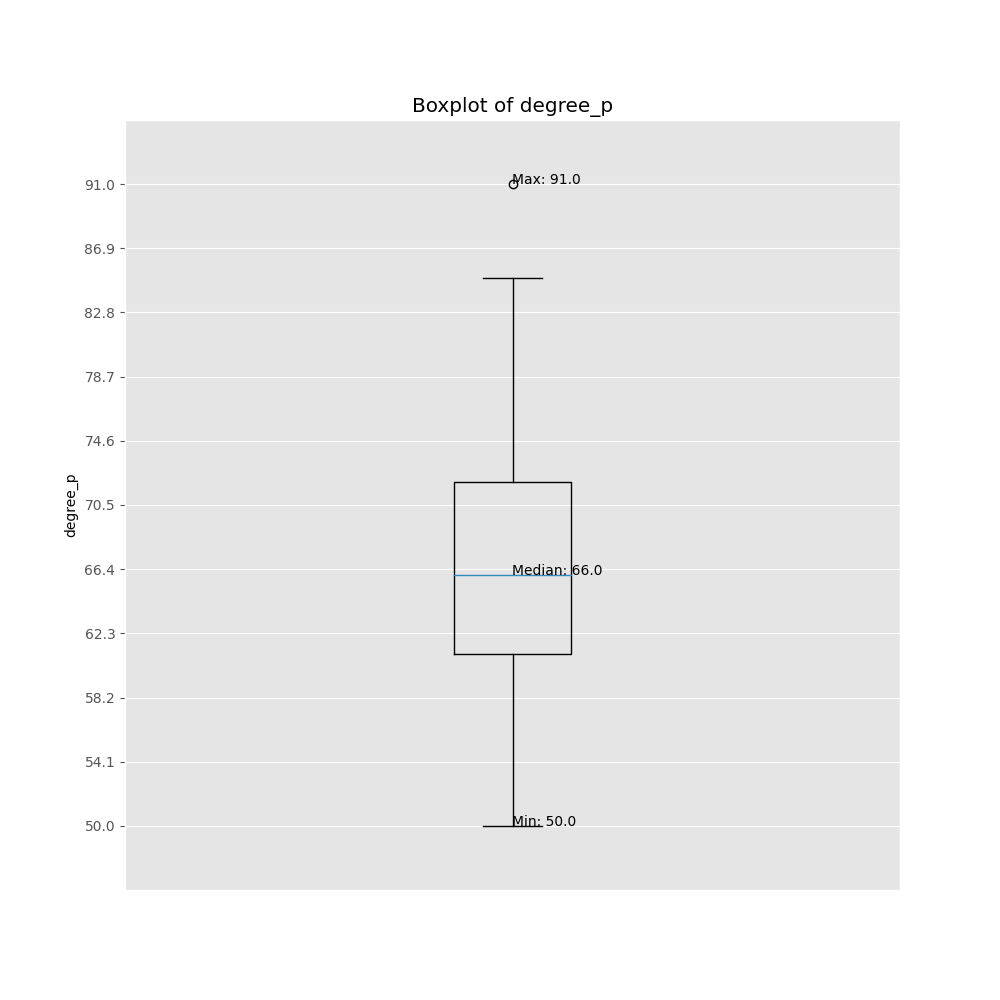
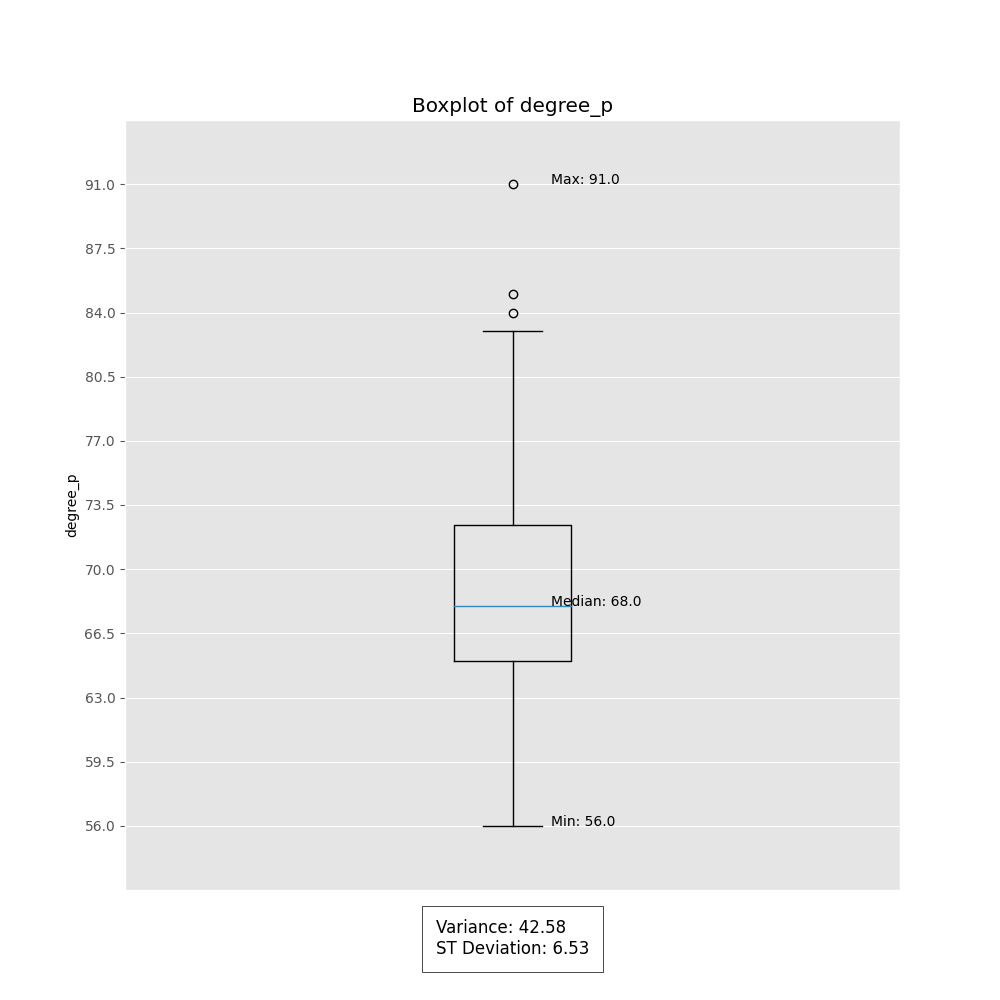
Update and Refactoring

diff --git a/utility.py b/utility.py
@@ -4,17 +4,19 @@ import logging
 from sklearn.preprocessing import LabelEncoder
 import matplotlib.pyplot as plt
 import json
+import re
 
 config = json.load(open("config.json", "r"))
 
-fig_path = "./figures"
+fig_path    = "./figures"
+corr_path   = "./correlations"
 plt.style.use('ggplot') # set matplotlib styling
 
 """
 This is a file for general utility, where some functions are stored that are used multiple times.
 This is to keep the main.py file clean and easy to follow and improve reusability of the code.
 """
-# multi column label encoder 
+# multi-column label encoder 
 class MCLE:
 
     def __init__(self, columns=None):
@@ -62,59 +64,124 @@ class MCLE:
             logging.error(e)
             return None
 
-def _correlations(df, column, threshold):    
-    logging.log(level=0, msg=f"Correlations with {column}")
+def _corr_string(dir):
+    string = ""
+    for i, value in enumerate(dir):
+        string += f"{value:<15} {round(dir[value], 5)}"
+
+        if i != len(dir) - 1:
+            string += "\n"
+    
+    return string
+
+def _correlations(df, column, threshold=0):    
     correlations = df.corr()[column]
+    logging.debug(f"Correlations before drop: {correlations}")
+    correlations.drop(column, inplace=True)
+    logging.debug(f"Correlations after drop: {correlations}")
     corr_dict = dict()
     for i, corr in enumerate(correlations):
         logging.log(level=0, msg=f"{correlations.index[i]:<15}: {round(corr, 5)}")
         if threshold is not None:
-            if corr >= threshold:
+            if abs(corr) >= threshold:
                 corr_dict[correlations.index[i]] = corr
 
     return corr_dict
 
-def corr(df=None, column=None, threshold=0.25, split_gender=False):
+def get_corr(df=None, column=None, split_genders=False, file=None, features=[]):
+    if not isinstance(df, pd.DataFrame):
+        logging.warning("df is not a DataFrame")
+        return None
+    
+    if column is None or column not in df.columns:
+        logging.warning(f"Column {column} is None or not in DataFrame.")
+        return None
+    
+    if features is str:
+        features = [features]
+    
+    try:
+        f = open(f"{corr_path}/{file}.txt", "r")
+        groups = f.read().split("\n\n")
+        f.close()
+    except Exception:
+        logging.error(e)
+        logging.warning(f"Create correlation file '{file}.txt' first using .corr()")
+
+    try:
+        female_df = df[df["gender"] == 0] if split_genders == True else None
+        male_df = df[df["gender"] == 1] if split_genders == True else None
+    except Exception as e:
+        split_genders = False
+        logging.error(e)
+        logging.error("Couldn't split genders")
+
+    for feature in features:
+        if feature not in df.columns:
+            logging.warning(f"Feature {feature} not in df")
+            continue
+        if feature == column:
+            logging.debug(f"Skipped correlation for double {feature}")
+            continue
+        try:
+            corrs = {
+                "general":  _correlations(df[[column, feature]], column)[feature],
+                "female":   _correlations(female_df[[column, feature]], column)[feature] if split_genders is True else None,
+                "male":     _correlations(male_df[[column, feature]], column)[feature] if split_genders is True else None}
+        except Exception as e:
+            logging.error(e)
+            return None
+        
+        for i, group in enumerate(groups):
+            listed_features = re.findall(r"\n(w+)", group)
+            if feature not in listed_features:
+                value = corrs["general"] if i == 0 else corrs["female"] if i == 1 else corrs["male"]
+                if value is not None:
+                    groups[i] += f"\n{feature:<15} {round(value, 5)}"
+    
+    with open(f"{corr_path}/{file}.txt", "w") as file:
+        file.write("\n\n".join(groups))
+    return None
+
+def corr(df=None, column=None, threshold=0.25, split_genders=False, file=None):
     
     # checking that all given parameters are valid
     if not isinstance(df, pd.DataFrame):
         logging.warning("df is not a DataFrame")
         return None
 
-    if column is None or column not in df.columns or type(column) is not str:
+    if column is None or column not in df.columns:
         logging.warning(f"Column {column} is None or not in DataFrame.")
         return None
     
     if threshold is not None and (type(threshold) is not float or threshold < 0.01 or threshold > 0.99):
         logging.warning(f"Threshold {threshold} is not a float between 0.01 and 0.99")
         return None
-    
-    female_df = male_df = female_corr = male_corr = None
 
-    if split_gender:
-        try:
-            female_df = df[df["gender"] == 0]
-            male_df = df[df["gender"] == 1]
-        except Exception as e:
-            logging.error(e)
-            logging.error("Couldn't split dataframe by gender")
-    
+    try:
+        female_df = df[df["gender"] == 0] if split_genders == True else None
+        male_df = df[df["gender"] == 1] if split_genders == True else None
+    except Exception as e:
+        split_genders = False
+        logging.error(e)
+        logging.error("Couldn't split genders")
+
     general_corr = _correlations(df, column, threshold)
-    if female_df is not None: 
-        try:
-            female_corr = _correlations(female_df, column, threshold)
-        except Exception as e:
-            logging.error(e)
-    if male_df is not None:
-        try:
-            male_corr = _correlations(male_df, column, threshold)
-        except Exception as e:
-            logging.error(e)
+    female_corr = _correlations(female_df, column, threshold) if split_genders is True else None
+    male_corr = _correlations(male_df, column, threshold) if split_genders is True else None
     
-    logging.info(f"General Correlations: {general_corr}")
+    if file is not None:
+        file = open(f"{corr_path}/{file}.txt", "w")
+        file.write(f"General Correlations: \n{_corr_string(general_corr)}\n\n")
+        if male_corr and female_corr:
+            file.write(f"Female Correlations: \n{_corr_string(female_corr)}\n\n")
+            file.write(f"Male Correlations: \n{_corr_string(male_corr)}")
+        file.close()
+
+    logging.debug(f"General Correlations: {general_corr}")
     if male_corr and female_corr:
-        logging.info(f"Male Group Correlations: {male_corr}")
-        logging.info(f"Female Group Correlations: {female_corr}")
+        logging.debug(f"Male Group Correlations: {male_corr}")
+        logging.debug(f"Female Group Correlations: {female_corr}")
         return general_corr, female_corr, male_corr
     else:
         return general_corr
@@ -146,9 +213,13 @@ def boxplot(series=None, name=None):
 
     plt.ylabel(f"{name}")
     plt.xticks([])
-    plt.text(1, series.median(), f"Median: {round(series.median(), 2)}")
-    plt.text(1, series.min(), f"Min: {round(series.min(), 2)}")
-    plt.text(1, series.max(), f"Max: {round(series.max(), 2)}")
+    plt.text(1.05, series.median(), f"Median: {round(series.median(), 2)}")
+    plt.text(1.05, series.min(), f"Min: {round(series.min(), 2)}")
+    plt.text(1.05, series.max(), f"Max: {round(series.max(), 2)}")
+
+    # add text box with outlines below the boxplot
+    plt.text(x=1, y=series.min()-(series.max()-series.min())*0.2, s=f"{'Variance:'} {round(series.var(), 2)}\n{'ST Deviation:'} {round(series.std(), 2)}", fontsize=12, horizontalalignment='center', multialignment="left").set_bbox({"edgecolor": "black", "facecolor": "white", "pad": 10})
+
 
     plt.savefig(f"{fig_path}/{name}_boxplot.png")
 
@@ -203,3 +274,18 @@ def pie_chart(series=None, name=None):
     plt.savefig(f"{fig_path}/{name}_pie_chart.png")
 
     logging.info(f"Created pie chart of {name}")
+
+def percentiles(series=None, percentiles=[0.25, 0.5, 0.75]):
+    if series is None or not isinstance(series, pd.Series):
+        logging.warning("Series is None or not a Series")
+        return None
+
+    if percentiles is None or not isinstance(percentiles, list):
+        logging.warning("percentiles is None or not a list")
+        return None
+
+    percentie_dict = {}
+    for percentile in percentiles:
+        percentie_dict[percentile] = series.quantile(percentile)
+
+    return percentie_dict

diff --git a/main.py b/main.py
@@ -6,6 +6,9 @@ import logging
 import stats
 from sklearn.preprocessing import LabelEncoder
 import utility as utils
+import json
+
+config = json.load(open("config.json", "r"))
 
 # set logging config
 logging.basicConfig(format='%(asctime)s %(levelname)s %(filename)s:%(lineno)s %(message)s',
@@ -33,9 +36,23 @@ boxplots    = ["ssc_p", "hsc_p", "etest_p", "degree_p", "mba_p", "salary"]
 histograms  = ["ssc_p", "hsc_p", "etest_p", "degree_p", "mba_p", "salary"]
 pie_charts  = ["hsc_s", "degree_t"]
 
-for feature in boxplots:
-    utils.boxplot(df[feature], feature)
-for feature in histograms:
-    utils.histogram(df[feature], feature, bins=20)
-for feature in pie_charts:
-    utils.pie_chart(mcle.inverse_transform(df)[feature], feature) # using the inverse transformation to get correct labels
+if True:
+    for feature in boxplots:
+        percentile_dict = utils.percentiles(series=df[feature], percentiles=[0.95])
+        logging.debug(f"{feature} percentiles: {percentile_dict}")
+
+# remove salaries above 95th percentile, also keep missing values
+df = df[(df["salary"] <= 423250) | (df["salary"].isna())]
+
+if False:
+    for feature in boxplots:
+        utils.boxplot(df[feature], feature)
+    for feature in histograms:
+        utils.histogram(df[feature], feature, bins=config["hist_bins"])
+    for feature in pie_charts:
+        utils.pie_chart(mcle.inverse_transform(df)[feature], feature) # using the inverse transformation to get correct labels
+
+# calculate correlation for salary feature
+salary_corr = utils.corr(df, "salary", config["corr_threshold"], split_genders=True, file="salary_corr")
+status_corr = utils.corr(df, "status", config["corr_threshold"], split_genders=True, file="status_corr")
+utils.get_corr(df, "salary", None, split_genders=True, file="salary_corr", single=["etest_p"])
